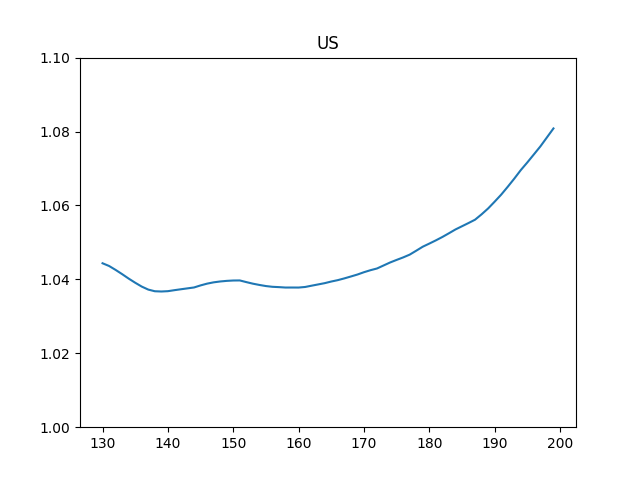
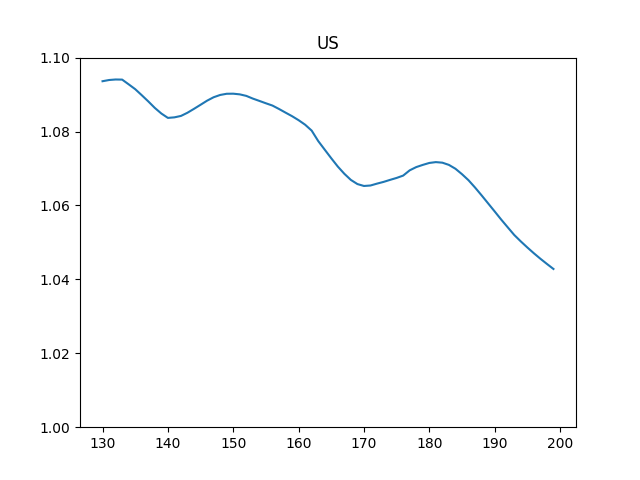
-

diff --git a/en/README.md b/en/README.md
@@ -1,80 +1,91 @@
 # Tweets
 
-<img width="250" src="https://drive.google.com/uc?export=view&id=1RuAIV1vVuOUQnkerelkmLLlm9JDPQym-"/>
+"@michaeldweiss
+
+Protests continue across Russia today to free Navalny. Video of cops
+beating people in St. Petersburg"
+
+[Link](https://mobile.twitter.com/michaeldweiss/status/1355914024328835072)
 
 ---
 
-Right it'd be pretty stupid if they kept dividing the stock market cap
-by the same number, for three months.. Then there'd be no need for
-this ratio, you would just look at the market cap value itself..
-
-No they use projected GDP, and apparently take it from the
-[GDPNow](https://www.frbatlanta.org/cqer/research/gdpnow.aspx)
-estimate of the FED.
-
-"Wilshire uses market cap divided by GDP. But official GDP is released
-quarterly? Do they they use that number for this calculation?"
+Fundam phy is stuck, and they know it. But they think they need more
+elaborate ideas to get out of it, enter endless "thought experiments"
+on time, universes, determinism, etc. But it is very possible what
+they missed is something basic, but two or three steps ago. They built
+up all this shit thinking that step was real, so the fix will involve
+fixing that error, or creating something more fundamental than having
+these "sexy tricks" to get out.
 
 ---
 
-Yep; bcz of incompressibility, star cannot collapse on itself, a
-black hole cannot form. Years of pondering, books, articles written
-assuming BH existence were all worthless. It all goes to the trash.
-
-<iframe width="300"  src="https://www.youtube.com/embed/kI14fpM3ouU?start=333&end=369" frameborder="0" allow="accelerometer; autoplay; clipboard-write; encrypted-media; gyroscope; picture-in-picture" allowfullscreen></iframe>
+This is why left-leaning econs hate this thing to a man.
 
 ---
 
-WH advisor Brian Deese, asked abt "what about Wall Street, volatility"
-blah blah.. He was like "our focus right now is Main Street". Good
-answer \#PBS
+Fast digital payments are a good thing of course. As curr, money base
+needs to expand.
 
 ---
 
-All-around shoot-the-shit is no picnic either, I tell you.
+Hal Finney's (so called "Satoshi") reasoning for creating BTC was
+wrong. He created it in the aftermath of 2008 crisis (his pseudo is
+taken after his neighbor's name who lost money during crisis), and
+thought "printing money" was the culprit. The problem wasnt printing
+money per se, but who you print it for.
 
 ---
 
-Skills to be a journo has to be different than the skills to be an
-all-around shoot-the-shit commentator. Lots involved in checking a
-story, talking to ppl involved in it, etc right? Lota focused skill
+BTC is absolutely the expression of a naivete of the common tech
+dipshit - bright, shiny object-ism, unaware of landscape, soc
+ecosystem, side effects..
 
 ---
 
-*Outside the Wire*, little *Training Day*'ish, but has some solid
-anti-militant messages.. The actor with the wing-suit from *Avengers*
-was in it. Brother was like the black Terminator!
+In the absence of clear-cut scientific law, differing views surface,
+and among enough knowledgable people, their average leads to something
+optimal-ish. Example in econ there is divisions around thriftyness and
+extra spending (some research popping up on the question but nothing
+solid). Bitcoin though just chooses one side of that argument,
+ignoring the other (money base cannot expand = thrift) hence it takes
+itself out of the discussion altogether.
 
 ---
 
-Cutler - Sync Estate \#music
-
-[Link](https://youtu.be/_GLwv4TUGfo)
+<blockquote class="twitter-tweet"><p lang="en" dir="ltr">This problem you&#39;ve been concerned with, that thousands of people have studied for decades and sometimes centuries? It has a simple solution: bitcoin</p>&mdash; Gabriel Zucman (@gabriel_zucman) <a href="https://twitter.com/gabriel_zucman/status/1353189704385011712?ref_src=twsrc%5Etfw">January 24, 2021</a></blockquote> <script async src="https://platform.twitter.com/widgets.js" charset="utf-8"></script>
 
 ---
 
-Is this relevant today? Well modernity (the second wave, after the
-agro first) added its own mental structures that are in some ways even
-more encompassing, and intricate. No wonder many ppl are still
-interested in these things.. Zen, Buddhism etc, not to mention other
-mainstream religions from the West.
+What kind of notation is that? If random, not-referenced-elsewhere
+Greek letter is used, you have to assume summation over all indices?
+$u_\beta$ means $u_x + u_y + u_z$? WTF? What the actual f--k man?
 
 ---
 
-I guarantee it Eastern religions, Taoism, Buddhism are a protest
-against agro, village societies as well..  These societies constructed
-a conceptual world with its idols, worship rituals, rhytms so
-ever-present that new religions would rebel against. I bet the Zen
-koans are packaged to make zero sense in that frame, to stir shit up
-in the mind so that only when that frame is dropped, it makes sense,
-or rather, the act of trying to make sense is dropped, hence the
-practitioner reaches "enlightment".
+Gerardo Frisina - Bluesanova \#music
+
+[Link](https://youtu.be/9kl3sU_id58)
 
 ---
 
-messaging has been off
+"@HCTrudo
 
-<blockquote class="twitter-tweet"><p lang="en" dir="ltr">Always a red flag to me when you claim to be representing the mom and pop investor (especially if you can’t adequately describe what you’re protecting them from)</p>&mdash; Skanda Amarnath ( Neoliberal Sellout ) (@IrvingSwisher) <a href="https://twitter.com/IrvingSwisher/status/1355636735401721857?ref_src=twsrc%5Etfw">January 30, 2021</a></blockquote> <script async src="https://platform.twitter.com/widgets.js" charset="utf-8"></script>
+News: I'm told that as the budget reconciliation process is expected
+to get underway in Congress soon, a top progressive network,
+@PplsAction, is crafting its own list of priorities: -Recurring cash
+payments -Expanded eviction moratorium -Vaccines for all -State
+funding"
+
+---
+
+Started to watch more cable news, this must be return to some kind of normal
+
+---
+
+"@MattZeitlin
+
+wow wonder why VCs and tech execs want no taxes on capital gains, an
+expanded market for equities, and short sellers banned and/or jailed"
 
 ---
 

diff --git a/en/2020/02/corona.md b/en/2020/02/corona.md
@@ -14,10 +14,10 @@ plt.savefig('mort.png')
 ```
 
 ```text
-11/11/20    2.464445
-11/12/20    2.453431
-11/13/20    2.440825
-11/14/20    2.431413
+1/27/21    2.155877
+1/28/21    2.159727
+1/29/21    2.161726
+1/30/21    2.164064
 Name: deaths / 100 confirmed, dtype: float64
 ```
 
@@ -85,16 +85,16 @@ print (df[['Germany +','Germany %','UK +','UK %']].tail(10))
 
 ```text
 Country/Region  Germany +  Germany %     UK +      UK %
-11/5/20           22561.0   3.441277  24164.0  2.295915
-11/6/20           22820.0   3.510528  23322.0  2.247599
-11/7/20           14122.0   3.376844  24979.0  2.196411
-11/8/20           14510.0   3.203444  20580.0  2.127480
-11/9/20            6522.0   2.910066  21397.0  2.054349
-11/10/20          26547.0   3.023831  20451.0  2.001665
-11/11/20          22401.0   3.100720  23000.0  1.958350
-11/12/20          24738.0   2.971985  33517.0  2.041599
-11/13/20          22261.0   3.131554  27316.0  2.062794
-11/14/20          14640.0   2.772572  26876.0  2.032224
+1/21/21            8277.0   0.833230  37977.0  1.285756
+1/22/21           16366.0   0.770658  40321.0  1.253265
+1/23/21           12430.0   0.699258  33652.0  1.196699
+1/24/21           10078.0   0.639360  30111.0  1.128181
+1/25/21            6887.0   0.628786  22244.0  1.018077
+1/26/21            9387.0   0.599139  20167.0  0.948306
+1/27/21           15636.0   0.615061  25369.0  0.902018
+1/28/21           14883.0   0.638208  28811.0  0.868919
+1/29/21           12831.0   0.637274  29145.0  0.849391
+1/30/21           17518.0   0.576633  23400.0  0.799088
 ```
 
 <a name='Rt'/>
@@ -120,11 +120,11 @@ plt.savefig('Rt-US.png')
 ```
 
 ```text
-195    1.071632
-196    1.073799
-197    1.075977
-198    1.078405
-199    1.080834
+195    1.048635
+196    1.047065
+197    1.045581
+198    1.044175
+199    1.042812
 Name: 1, dtype: float64
 ```
 
